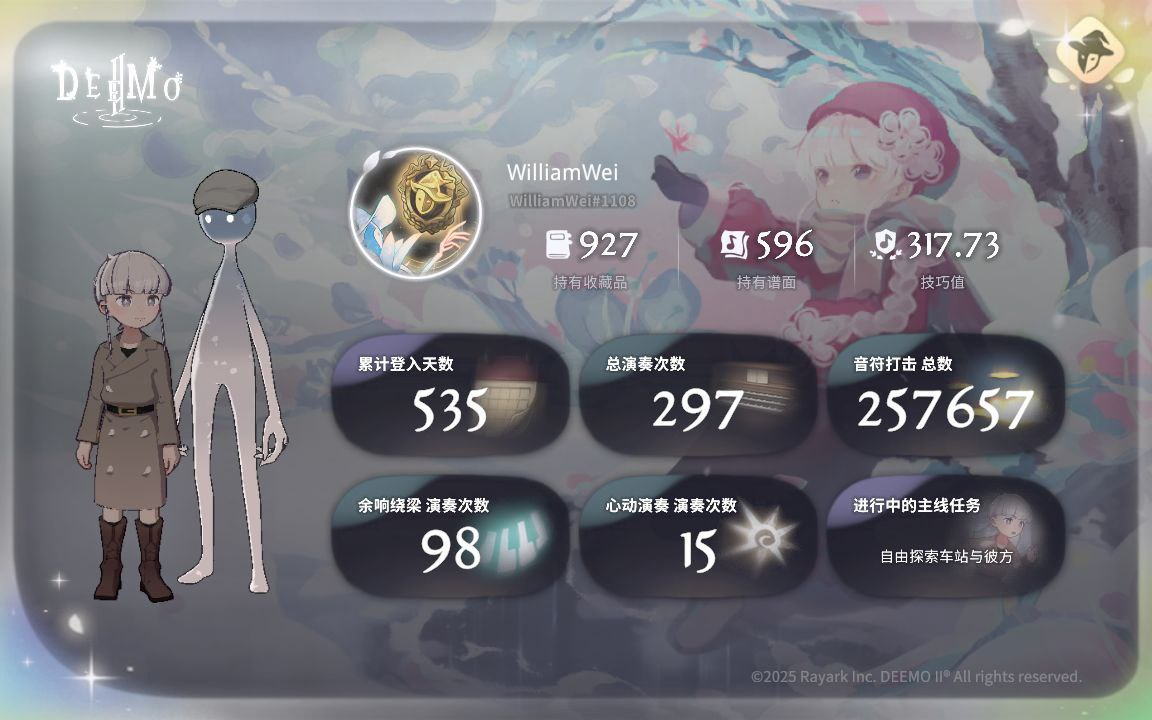
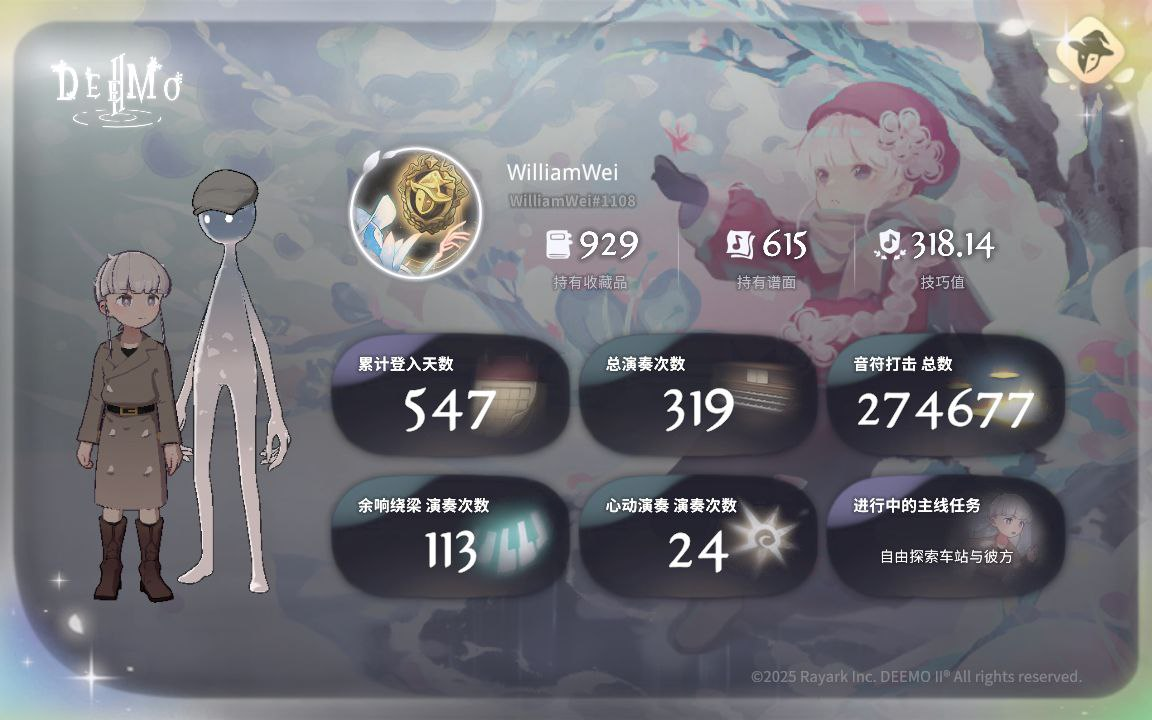
Update MUG info and fix typo

diff --git a/content/page/about/index.md b/content/page/about/index.md
@@ -1,6 +1,6 @@
 ---
 title: "关于"
-date: 2024-11-29
+date: 2025-01-27
 slug: "about"
 menu:
     main:
@@ -11,7 +11,7 @@ menu:
 
 William Wei（男）
 
-此前使用 WordPress 搭建博客，现在换到了 Hugo，感觉变清爽了很多……在[原站点](https://realiwilliamwei.wordpress.com)上的博文就不公布/同步了。说得好听点：有一股清涩感；难听点：都啥玩意（不忍直视.webp）
+此前使用 WordPress 搭建博客，现在换到了 Hugo，感觉变清爽了很多……在[原站点](https://realwilliamwei.wordpress.com)上的博文就不公布/同步了。说得好听点：有一股清涩感；难听点：都啥玩意（不忍直视.webp）
 
 喜欢信息技术但主修地信的大二生 ~~（谁告诉我地信会学 CS 的所有内容的？！）~~
 
@@ -21,12 +21,12 @@ William Wei（男）
 
 手残音游玩家，成分复杂：
 
-* Arcaea（基本退坑，打不动啦）：Potential 10.40，好友码 `044 040 642`
-* AstroDX（不出勤只打模拟器，社恐人，急需大佬带我打）：没上机也有 w3
-* Deemo II：大魔法师成就（国际服），技巧分 315+，零氪藏品全收集，最近最常玩
+* Arcaea（基本退坑，打不动啦）：Potential 10.42，好友码 `044 040 642`
+* AstroDX（不出勤只打模拟器，社恐人，急需大佬带我打）：没上机也有 w3.9，在冲纯板子 w4
+* Deemo II：大魔法师成就（国际服），技巧分 318+，零氪藏品全收集，最常玩（因为长期有活动）
 * Phigros：RankingScore 10.50
-* Rotaeno：音律值 15.777，好友码 `HPMGCP`
-* Muse Dash，Orzmic，等等
+* Rotaeno：音律值 2.6 版本改版前 15.784，现改版后 16.150，好友码 `HPMGCP`，基本上只在有活动的时候高强度玩
+* Milthm，Muse Dash，Orzmic，等等
 
 想与我一起打音游？非常欢迎！请到[音游联系方式](/p/mug)找我。
 

diff --git a/content/post/mug/index.md b/content/post/mug/index.md
@@ -2,7 +2,7 @@
 title: 音游联系方式
 description: Let's 音游趴体！能和我一起……打音游吗？
 slug: mug
-date: 2024-11-29
+date: 2025-01-27
 categories:
     - 音游
 ---
